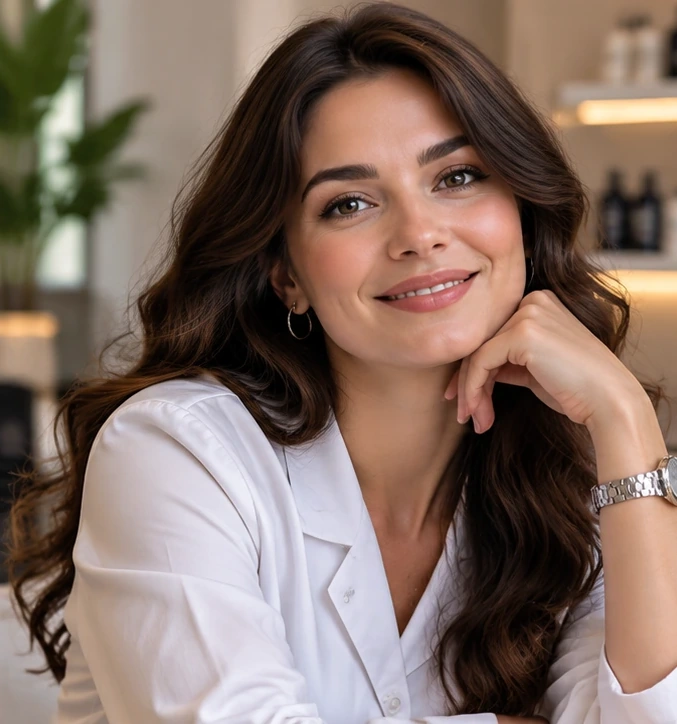
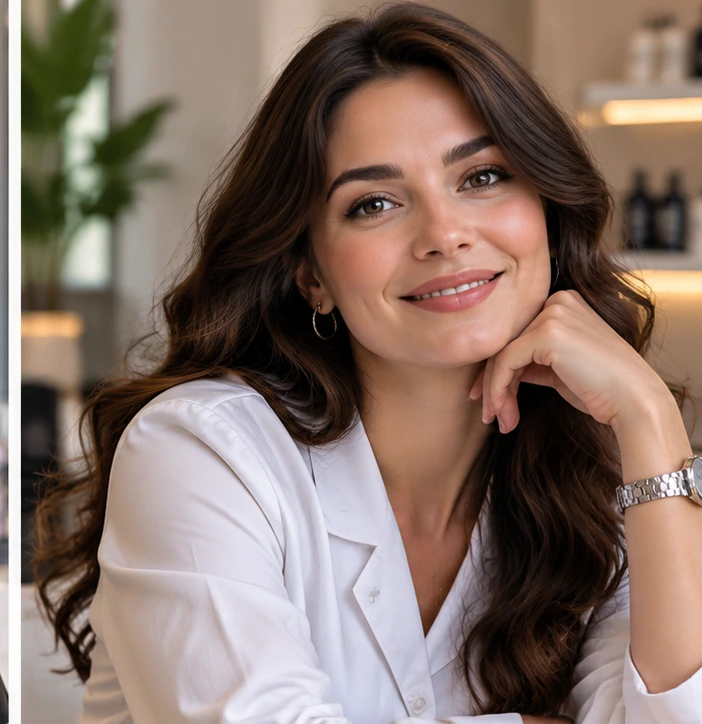
Add files via upload

diff --git a/style.css b/style.css
@@ -139,3 +139,16 @@ html {scroll-padding-top:0}
  .contacts-section .contact-note{padding:18px 20px}
  .booking-section{padding:48px 22px}
 }
+
+/* Mobile hero: readable live text, same approved photo cropped to avoid raster lettering. */
+@media(max-width:800px){
+ .hero{display:flex;flex-direction:column;max-width:none;height:auto;min-height:0;aspect-ratio:auto;background:none}
+ .hero::before{content:"";display:block;width:100%;height:clamp(235px,72vw,360px);background-image:url('assets/hero-mobile.webp');background-size:cover;background-position:center 18%;background-repeat:no-repeat}
+ .hero-copy{display:flex;flex-direction:column;padding:26px 7vw 34px;background:#f7f3ec;min-height:0}
+ .hero .eyebrow{font-size:10px;letter-spacing:.27em;margin:0}
+ .hero h1{font-size:clamp(42px,11.5vw,62px);line-height:1.04;margin:14px 0 14px;max-width:600px}
+ .hero .intro{font-size:15px;line-height:1.65;margin:0 0 22px;max-width:500px}
+ .hero .primary-button{font-size:14px;line-height:1.3;width:100%;max-width:420px;padding:16px 19px;border-radius:28px}
+ .hero-bottom{display:none}
+ .hero-visual,.hero-hotspot{display:none}
+}
